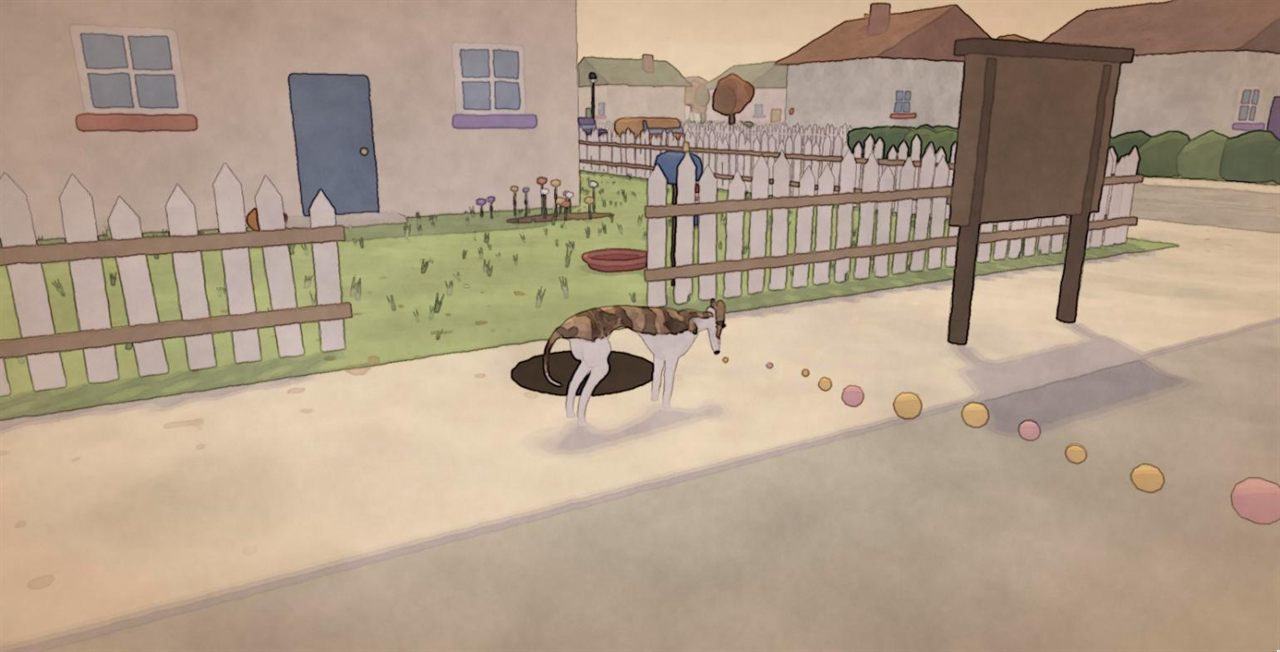
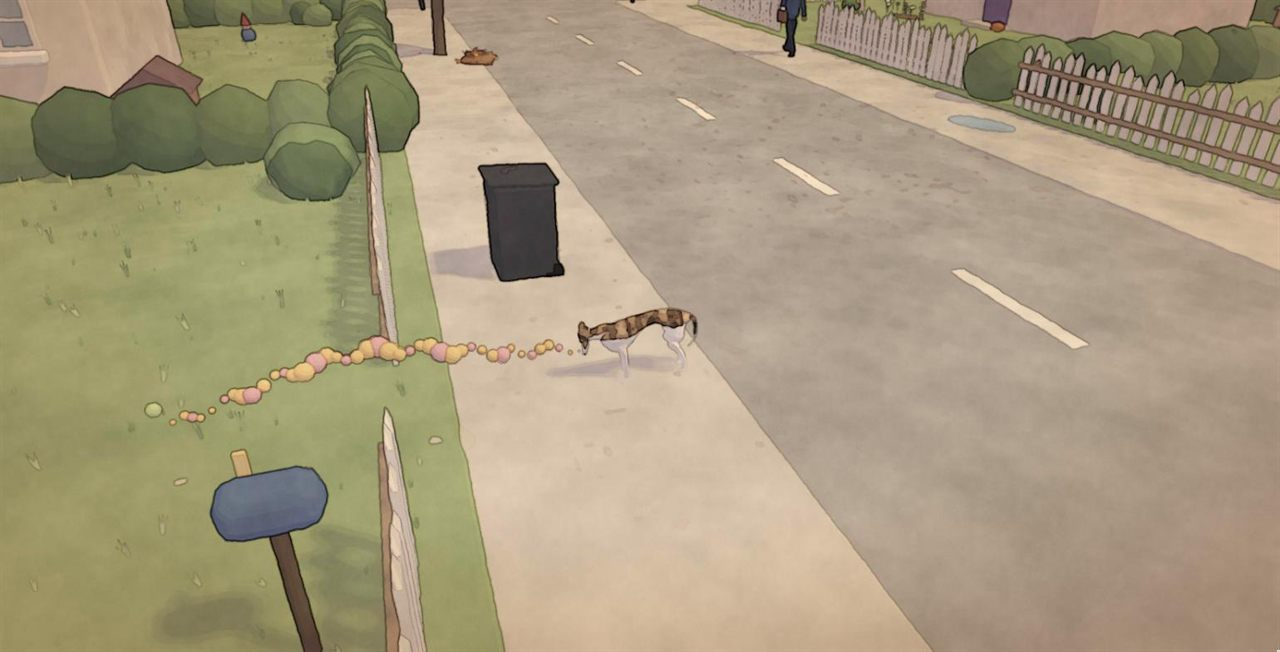
Merry's page: swipe any way on phones; a sniff picture with a short trail
- Touch: the walk follows your finger. Left or up goes on, right or down goes back; a swipe counts
  by the way it mostly goes (a swipe right that drifts up still goes back). Let go a quarter of the
  way along, or flick, to reach the next stop. One-finger pans are the page's own; pinching zooms.
- Trackpads: two fingers sideways work too.
- The sniff picture now shows a short scent trail and where it ends.

Claude-Session: https://claude.ai/code/session_01STK8fDSVADsnJigEpR8c4r

diff --git a/site/walk/walk.js b/site/walk/walk.js
@@ -80,16 +80,60 @@ addEventListener('keydown', (e) => {
   if (e.key === 'ArrowLeft') { e.preventDefault(); go(Math.round(scrollY / H()) - 1); }
 });
 // A mouse wheel or trackpad: one gesture, one stop (a whole gesture, inertia and all, counts once).
+// Trackpads can go sideways too: two fingers to the left goes on, like turning a page.
 let wheelUntil = 0;
 addEventListener('wheel', (e) => {
-  if (e.ctrlKey || open || Math.abs(e.deltaY) < Math.abs(e.deltaX)) return;
+  if (e.ctrlKey || open) return;
   e.preventDefault();
-  const now = performance.now();
+  const now = performance.now(), d = Math.abs(e.deltaY) >= Math.abs(e.deltaX) ? e.deltaY : e.deltaX;
   if (now < wheelUntil) { wheelUntil = Math.max(wheelUntil, now + 220); return; }
-  if (Math.abs(e.deltaY) < 3) return;
-  go(Math.round(scrollY / H()) + Math.sign(e.deltaY));
+  if (Math.abs(d) < 3) return;
+  go(Math.round(scrollY / H()) + Math.sign(d));
   wheelUntil = now + 700;
 }, { passive: false });
+
+// Touch: the walk follows your finger, whichever way you swipe. Left or up goes on, right or down
+// goes back (the card moves with your finger, like a page). A swipe that's mostly sideways counts as
+// sideways however much it drifts up or down, and the other way round. Let go a quarter of the way
+// along, or flick, to go to the next stop; less, and it settles back. Two fingers still zoom.
+const root = document.documentElement;
+let drag = null, settleT = 0;
+addEventListener('pointerdown', (e) => {
+  if (e.pointerType !== 'touch' || !e.isPrimary || open) return;
+  clearTimeout(settleT);
+  drag = { x: e.clientX, y: e.clientY, y0: scrollY, axis: null, moved: 0, t: performance.now(), vt: performance.now(), vm: 0, v: 0 };
+}, { passive: true });
+addEventListener('pointermove', (e) => {
+  if (!drag || !e.isPrimary) return;
+  const dx = e.clientX - drag.x, dy = e.clientY - drag.y;
+  if (!drag.axis) {
+    if (Math.hypot(dx, dy) < 10) return; // (not a swipe yet: maybe a tap)
+    drag.axis = Math.abs(dx) > Math.abs(dy) ? 'x' : 'y';
+    root.classList.add('dragging');
+  }
+  // How far along, in stops: a screen's width sideways, or a screen's height up or down, is one stop.
+  const moved = drag.axis === 'x' ? -dx / innerWidth : -dy / innerHeight, now = performance.now();
+  drag.v = (moved - drag.vm) / Math.max(0.008, (now - drag.vt) / 1000);
+  drag.vm = moved; drag.vt = now; drag.moved = moved;
+  const top = Math.max(0, Math.min((N - 1) * H(), drag.y0 + moved * H()));
+  scrollTo({ top, behavior: 'instant' });
+}, { passive: true });
+// (iPhones: stop the page scrolling under the finger. One finger only, so pinching still zooms.)
+addEventListener('touchmove', (e) => { if (e.touches.length === 1 && !open) e.preventDefault(); }, { passive: false });
+function endDrag(e) {
+  if (!drag || !e.isPrimary) return;
+  const d = drag;
+  drag = null;
+  if (!d.axis) return; // a tap
+  const from = Math.round(d.y0 / H());
+  const flick = Math.abs(d.v) > 0.8 && Math.abs(d.moved) > 0.04 && Math.sign(d.v) === Math.sign(d.moved);
+  const step = Math.abs(d.moved) > 0.25 || flick ? Math.sign(d.moved) : 0;
+  go(from + step);
+  // (snapping stays off until she's arrived, so the page doesn't jump to the nearest stop first)
+  settleT = setTimeout(() => root.classList.remove('dragging'), still ? 50 : 750);
+}
+addEventListener('pointerup', endDrag);
+addEventListener('pointercancel', endDrag);
 // Tabbing into a card that isn't in front: walk there.
 document.addEventListener('focusin', (e) => {
   const i = stops.findIndex((t) => t.sec.contains(e.target));

diff --git a/site/walk/walk.css b/site/walk/walk.css
@@ -1,5 +1,8 @@
 /* "The Walk": Merry trots along a painted garden; each stop slides in from the right as you go. */
 html { scroll-snap-type: y mandatory; }
+/* Touch swipes are handled by walk.js (any direction walks Merry), so the page doesn't pan itself; pinching still zooms. */
+html, body { touch-action: pinch-zoom; }
+html.dragging { scroll-snap-type: none; }
 body { min-height: 100svh; }
 
 /* ---------- the garden behind everything ---------- */
@@ -97,7 +100,7 @@ body { min-height: 100svh; }
 .hint .arrow { display: inline-block; animation: nudge 1.4s ease-in-out infinite; }
 @keyframes nudge { 50% { transform: translateX(6px); } }
 .hint-touch { display: none; }
-@media (pointer: coarse) { .hint-touch { display: inline; } .hint-mouse { display: none; } }
+@media (pointer: coarse) { .hint-touch { display: inline; } .hint-mouse, .hint .arrow { display: none; } }
 body.walked .hint { opacity: 0; }
 
 /* ---------- phones ---------- */

diff --git a/site/shared/content.js b/site/shared/content.js
@@ -7,7 +7,7 @@ export const PLAY_URL = '/play/';
 
 export const SHOTS = {
   garden: { src: '/shots/garden.jpg', alt: 'Merry the whippet in her back garden, beside a paddling pool and a picket fence' },
-  sniff: { src: '/shots/sniff.jpg', alt: 'Merry sniffing the pavement, with a trail of golden and pink scent puffs leading off down the street' },
+  sniff: { src: '/shots/sniff.jpg', alt: 'Merry sniffing the pavement, with a short trail of golden and pink scent puffs leading through a fence to a smell on the lawn' },
   bone: { src: '/shots/bone.jpg', alt: 'Merry looking up at a golden bone on top of a stack of crates' },
   town: { src: '/shots/town.jpg', alt: 'Merry on the pavement of a painted street of little houses' },
   heist: { src: '/shots/heist.jpg', alt: 'Merry creeping up on the baker’s stall of pastries while pigeons peck about' },

diff --git a/site/index.html b/site/index.html
@@ -33,7 +33,7 @@
     <!-- One stop per screen. Scrolling walks Merry from one to the next. -->
     <main id="journey"></main>
 
-    <p class="hint hand" aria-hidden="true"><span class="hint-touch">Swipe up</span><span class="hint-mouse">Scroll</span> to walk with Merry <span class="arrow">→</span></p>
+    <p class="hint hand" aria-hidden="true"><span class="hint-touch">Swipe left</span><span class="hint-mouse">Scroll</span> to walk with Merry <span class="arrow">→</span></p>
 
     <template id="stop">
       <section class="stop">

diff --git a/site/shared/base.css b/site/shared/base.css
@@ -40,7 +40,7 @@ img { display: block; max-width: 100%; }
 .play:active { transform: translateY(3px); box-shadow: 0 1px 0 var(--ink), 0 6px 14px rgba(59, 43, 37, 0.2); }
 
 /* Merry's canvas: shown once she's painted her first picture (until then the still shows through). */
-canvas.merry { display: block; opacity: 0; transition: opacity 0.8s ease; touch-action: pan-y; }
+canvas.merry { display: block; opacity: 0; transition: opacity 0.8s ease; }
 canvas.merry.awake { opacity: 1; }
 
 /* Paint swatches, as in the game's dog picker. */
